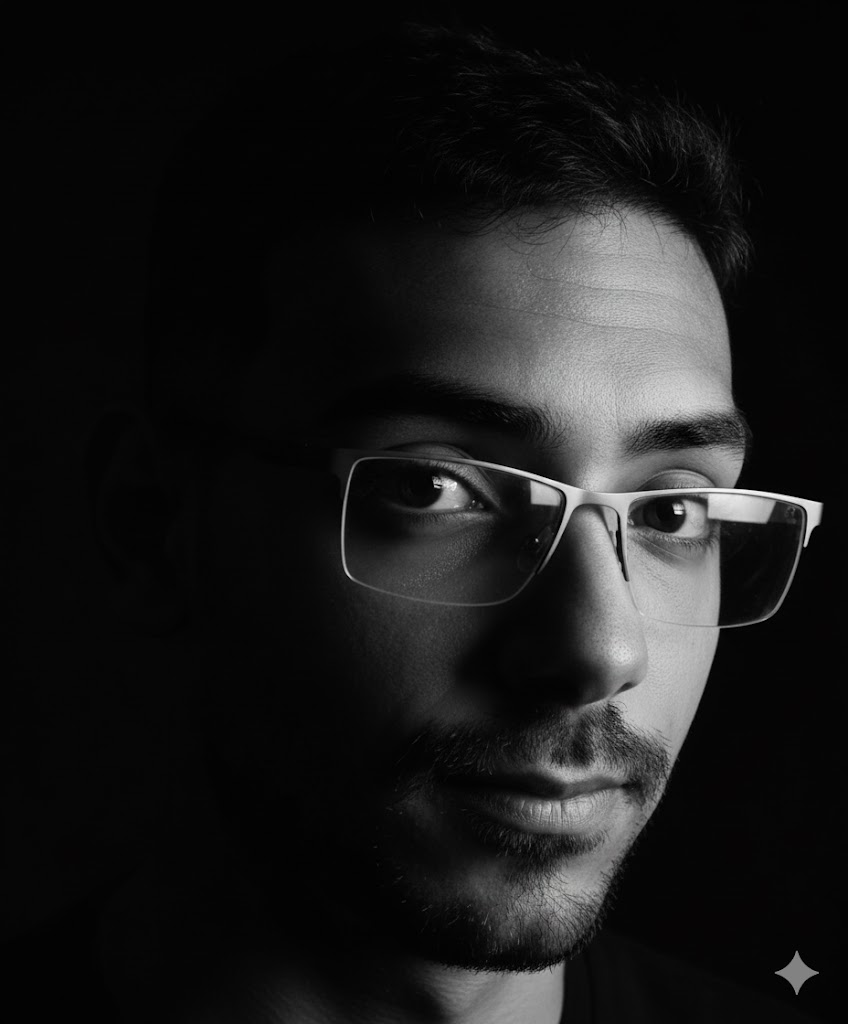
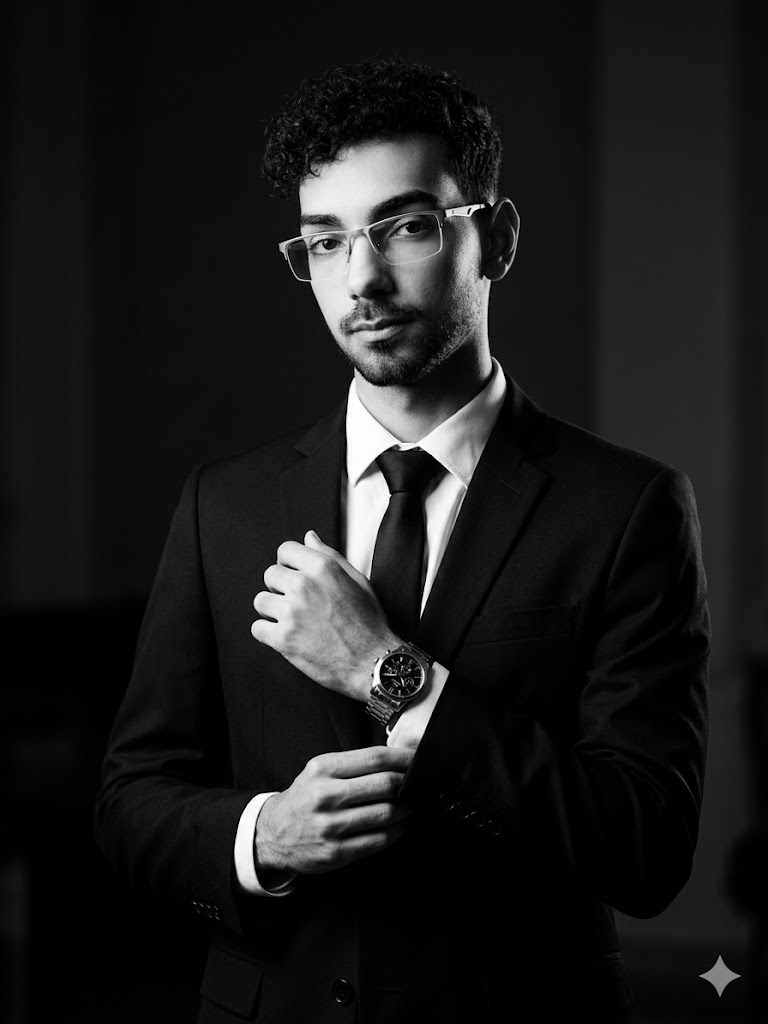
Atualização profissional e foto da minha plataforma

diff --git a/index.html b/index.html
@@ -427,7 +427,7 @@
                             <div class="left md:col-span-1">
                                 <div class="timeline-content">
                                     <h3 class="text-xl font-bold text-white">Suporte técnico em TI e Robótica - Ensino médio</h3>
-                                    <p class="text-slate-400 mt-2">Era conhecido como o cara da TI na minha escola de ensino médio, ajudava ativamente professores e colegas com problemas voltados a informática. <br> No penúltimo ano fui responsável por treinar equipes e programar robôs com a finalidade de representar a minha escola na Fundação Santo André.</p>
+                                    <p class="text-slate-400 mt-2">Era conhecido como o cara da TI no ensino médio, ajudava ativamente professores e colegas com problemas voltados a informática. <br> No penúltimo ano fui responsável por treinar equipes e programar robôs com a finalidade de representar a minha escola na Fundação Santo André.</p>
                                     <div class="text-sm text-slate-500 mt-4">Jan 2023 — Dez 2024</div>
                                 </div>
                             </div>
@@ -455,9 +455,45 @@
                         <div class="timeline-item">
                             <div class="left md:col-span-1">
                                 <div class="timeline-content">
-                                    <h3 class="text-xl font-bold text-white">Fundador & Segurança cibernético — ScriptHadder</h3>
-                                    <p class="text-slate-400 mt-2">Fundei a startup ScriptHadder, focada em soluções de codificações seguras, atualmente atuo como Segurança cibernético, Cloud Security e DevSecOps.</p>
-                                    <div class="text-sm text-slate-500 mt-4">Ago 2025 — Presente</div>
+                                    <h3 class="text-xl font-bold text-white">
+                                        Dev FullStack & Segurança Cibernético — ScriptHadder
+                                    </h3>
+
+                                    <div class="text-slate-400 mt-2 space-y-4">
+                                        <p>
+                                            A ScriptHadder é uma startup focada em Segurança Cibernética, Desenvolvimento de Software e DevSecOps, criada para integrar segurança e inovação em todas as etapas do ciclo de desenvolvimento. Nossa missão é construir soluções seguras, escaláveis e alinhadas às necessidades de um cenário digital em constante evolução.
+                                        </p>
+
+                                        <p>
+                                            Entre nossas iniciativas está o Vexcrypt, projeto voltado à pesquisa e desenvolvimento de tecnologias criptográficas de próxima geração, incluindo estudos em Criptografia Pós-Quântica, proteção de dados e aplicações voltadas à segurança da informação.
+                                        </p>
+
+                                        <p>
+                                            Como Founder, atuo na definição da estratégia tecnológica da empresa, liderando projetos de desenvolvimento e segurança, além de promover a adoção de práticas modernas de engenharia de software e cibersegurança.
+                                        </p>
+
+                                        <div>
+                                            <p class="font-semibold text-slate-300 mb-2">
+                                                Principais responsabilidades:
+                                            </p>
+
+                                            <ul class="list-disc list-inside space-y-2">
+                                                <li>Condução de Pentests e avaliações de segurança.</li>
+                                                <li>Implementação de práticas de AppSec e DevSecOps.</li>
+                                                <li>Arquitetura e desenvolvimento de aplicações Full Stack.</li>
+                                                <li>Criação e manutenção de documentação técnica e processos de software.</li>
+                                                <li>Definição e aplicação de metodologias de desenvolvimento.</li>
+                                                <li>Pesquisa e implementação de soluções baseadas em Inteligência Artificial.</li>
+                                                <li>Administração e automação de infraestrutura e ambientes Linux.</li>
+                                                <li>Pesquisa e desenvolvimento de soluções criptográficas por meio do Vexcrypt.</li>
+                                                <li>Liderança técnica e planejamento estratégico de produtos e serviços.</li>
+                                            </ul>
+                                        </div>
+                                    </div>
+
+                                    <div class="text-sm text-slate-500 mt-4">
+                                        Ago 2025 — Presente
+                                    </div>
                                 </div>
                             </div>
                                 <div class="md:flex md:justify-center" aria-hidden="true">
@@ -473,9 +509,43 @@
                             </div>
                             <div class="right md:col-span-1">
                                 <div class="timeline-content">
-                                    <h3 class="text-xl font-bold text-white">Estagiário em Suporte Técnico — EPTV</h3>
-                                    <p class="text-slate-400 mt-2">Auxilio os técnicos na manutenção e no suporte dos sistemas internos da empresa em TO (Tecnologia Operacional) e TI (Tecnologia da Informação).</p>
-                                    <div class="text-sm text-slate-500 mt-4">Out 2025 — Presente</div>
+                                    <h3 class="text-xl font-bold text-white">
+                                        Estagiário em Suporte Técnico — EPTV
+                                    </h3>
+
+                                    <div class="text-slate-400 mt-2 space-y-4">
+                                        <p>
+                                            Atuei no suporte à manutenção preventiva e corretiva da infraestrutura tecnológica e dos equipamentos da emissora, contribuindo para a continuidade das operações do Grupo EP.
+                                        </p>
+
+                                        <p>
+                                            Também fui responsável pela execução de testes estruturados em sistemas corporativos, identificação e análise de falhas em aplicações críticas utilizadas pelas empresas do grupo, incluindo EPTV, Jovem Pan, CBN, Rádio EP e o portal ACidade ON.
+                                        </p>
+
+                                        <p>
+                                            Minhas atividades incluíam a triagem, classificação e acompanhamento de incidentes, priorizando as brechas de segurança / vulnerabilidades de acordo com sua severidade e impacto no negócio, além da colaboração com equipes multidisciplinares para investigação, resolução de problemas e melhoria contínua dos serviços e aplicações.
+                                        </p>
+
+                                        <div>
+                                            <p class="font-semibold text-slate-300 mb-2">
+                                                Principais responsabilidades e experiências:
+                                            </p>
+
+                                            <ul class="list-disc list-inside space-y-2">
+                                                <li>Suporte à infraestrutura e aos equipamentos de TI;</li>
+                                                <li>Manutenção preventiva e corretiva de equipamentos;</li>
+                                                <li>Testes funcionais e validação de aplicações;</li>
+                                                <li>Análise e investigação de falhas em sistemas críticos;</li>
+                                                <li>Reunião e emissão de relatórios com brechas de segurança;</li>
+                                                <li>Manutenção de equipamentos eletrônicos;</li>
+                                                <li>Suporte às operações digitais do Grupo EP.</li>
+                                            </ul>
+                                        </div>
+                                    </div>
+
+                                    <div class="text-sm text-slate-500 mt-4">
+                                        Out 2025 — Jun 2026
+                                    </div>
                                 </div>
                             </div>
                         </div>
@@ -484,9 +554,40 @@
                         <div class="timeline-item">
                             <div class="left md:col-span-1">
                                 <div class="timeline-content">
-                                    <h3 class="text-xl font-bold text-white">Pentester — FIAP (Challenger)</h3>
-                                    <p class="text-slate-400 mt-2">Durante minha formação estou podendo atuar como pentester em empresas parceiras da FIAP, podendo assim adquirir conhecimentos práticos de penetração de sistemas e gerenciamento de vulnerabilidades.</p>
-                                    <div class="text-sm text-slate-500 mt-4">Dez 2025 — Presente</div>
+                                    <h3 class="text-xl font-bold text-white">
+                                        Pentester — FIAP (Challenger)
+                                    </h3>
+
+                                    <div class="text-slate-400 mt-2 space-y-4">
+                                        <p>
+                                            Como estudante de Segurança Cibernética na FIAP, participo de atividades acadêmicas voltadas à segurança ofensiva, testes de penetração e simulações de cenários reais, desenvolvendo experiência prática como Hacker Ético e Pentester.
+                                        </p>
+
+                                        <p>
+                                            Durante o primeiro ano do curso, tive a oportunidade de atuar em um projeto de Pentest para a organização CEAP, aplicando conhecimentos técnicos em um ambiente real e colaborando com minha equipe em todas as etapas do processo. Nosso trabalho foi aprovado em todas as fases do projeto, demonstrando comprometimento com a qualidade das análises e das entregas.
+                                        </p>
+
+                                        <div>
+                                            <p class="font-semibold text-slate-300 mb-2">
+                                                Principais atividades desenvolvidas:
+                                            </p>
+
+                                            <ul class="list-disc list-inside space-y-2">
+                                                <li>Fase 1 – Escolhendo metodologia e framework;</li>
+                                                <li>Fase 2 – Enumeração, reconhecimento e análise da superfície de ataque;</li>
+                                                <li>Fase 3 – Testes de invasão ética e validação de vulnerabilidades;</li>
+                                                <li>Fase 4 – Elaboração e entrega de relatórios técnicos contendo evidências, POCs, análise de riscos e recomendações de mitigação.</li>
+                                            </ul>
+                                        </div>
+
+                                        <p>
+                                            Essa experiência permitiu aplicar na prática conceitos de Pentest, Red Team, análise de vulnerabilidades, documentação técnica e comunicação de riscos, contribuindo para o fortalecimento da postura de segurança da organização avaliada.
+                                        </p>
+                                    </div>
+
+                                    <div class="text-sm text-slate-500 mt-4">
+                                        Dez 2025 — Mai 2026
+                                    </div>
                                 </div>
                             </div>
                             <div class="md:flex md:justify-center" aria-hidden="true">